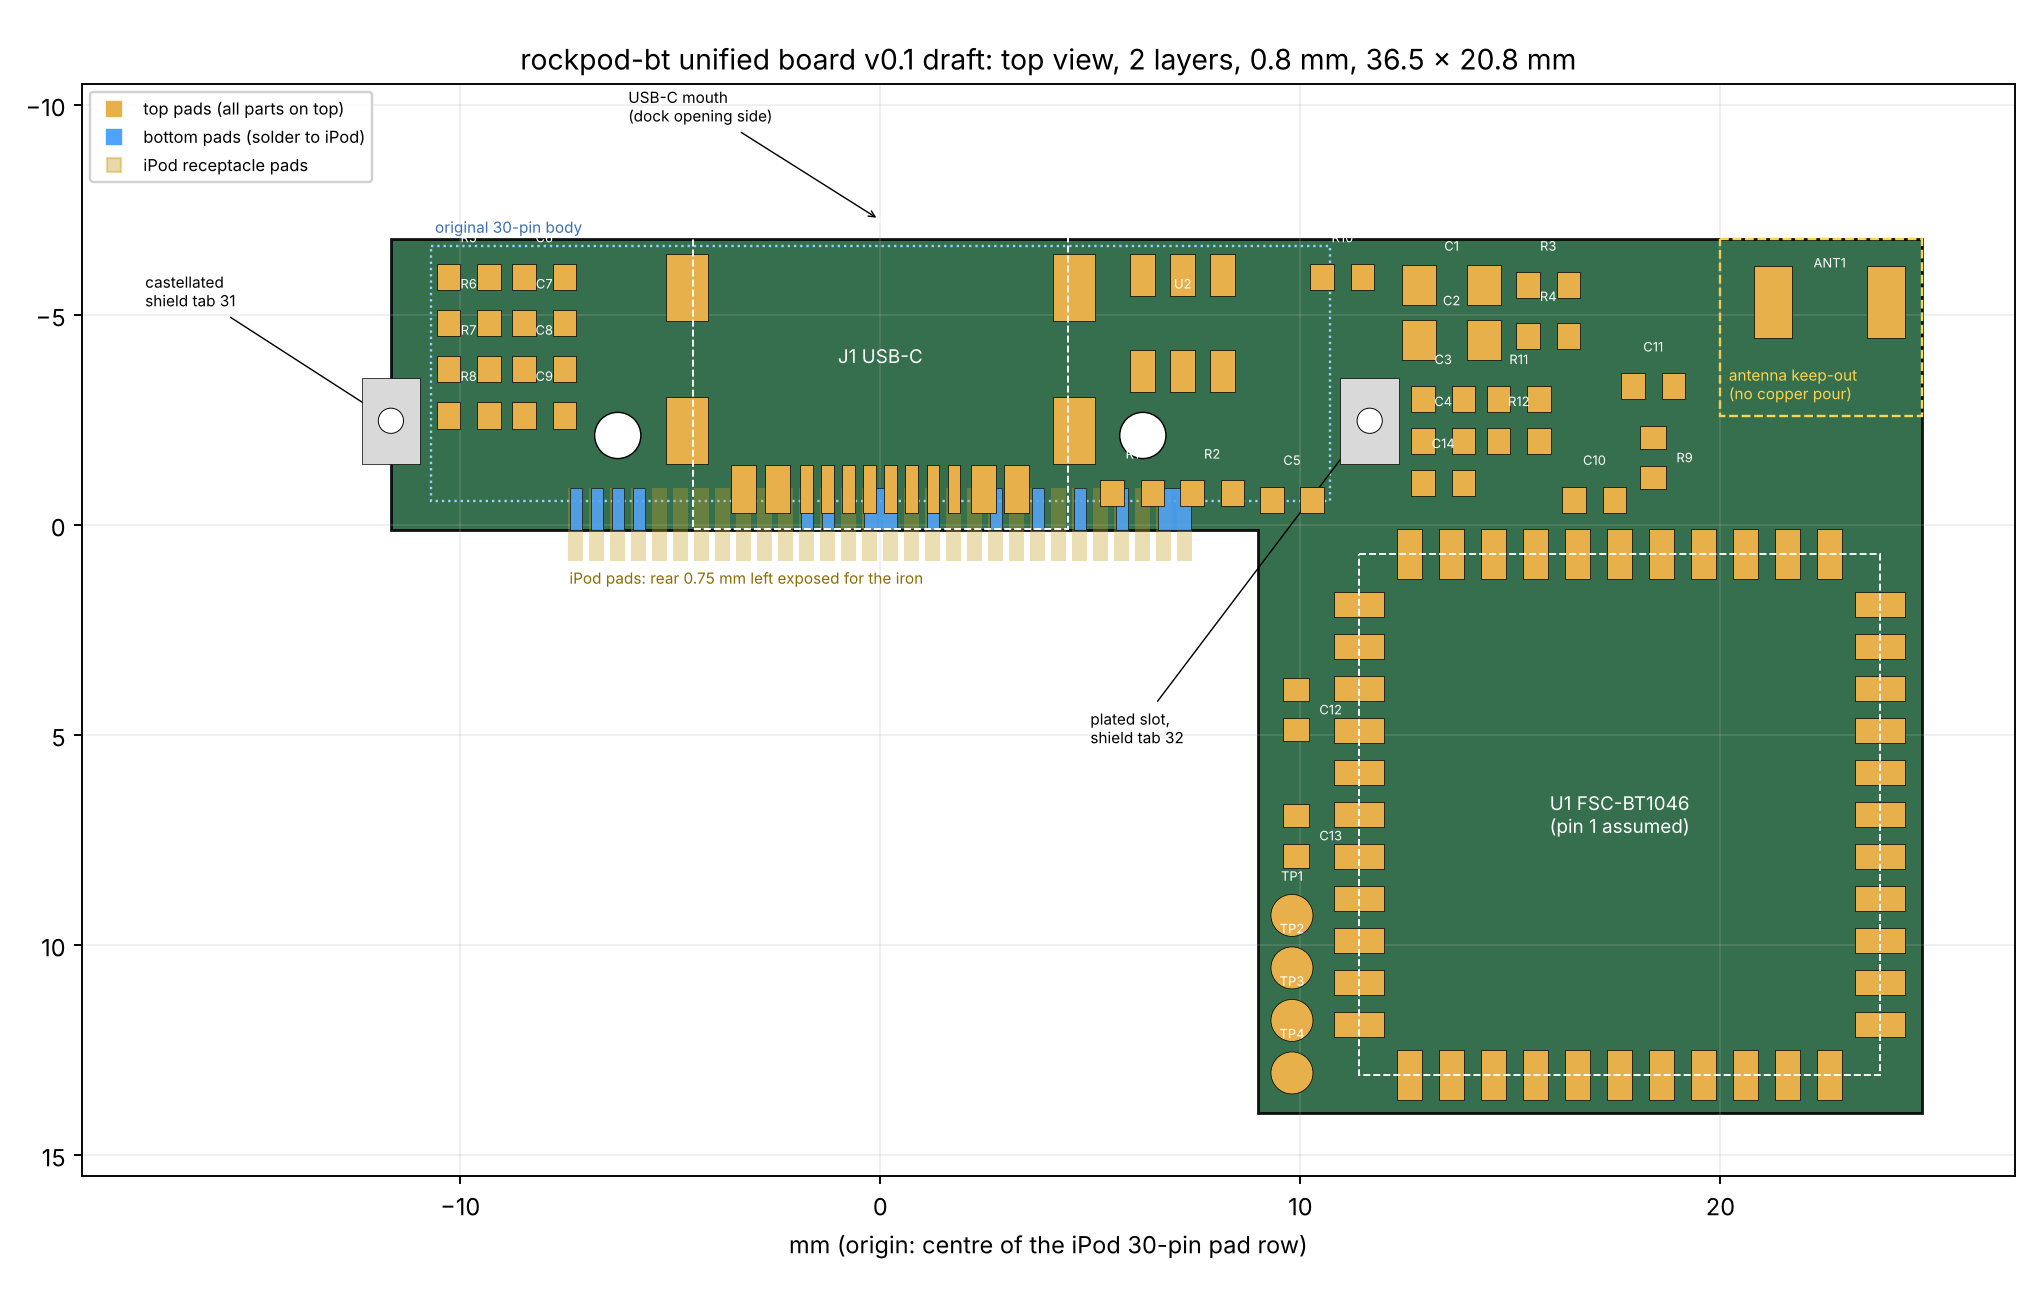
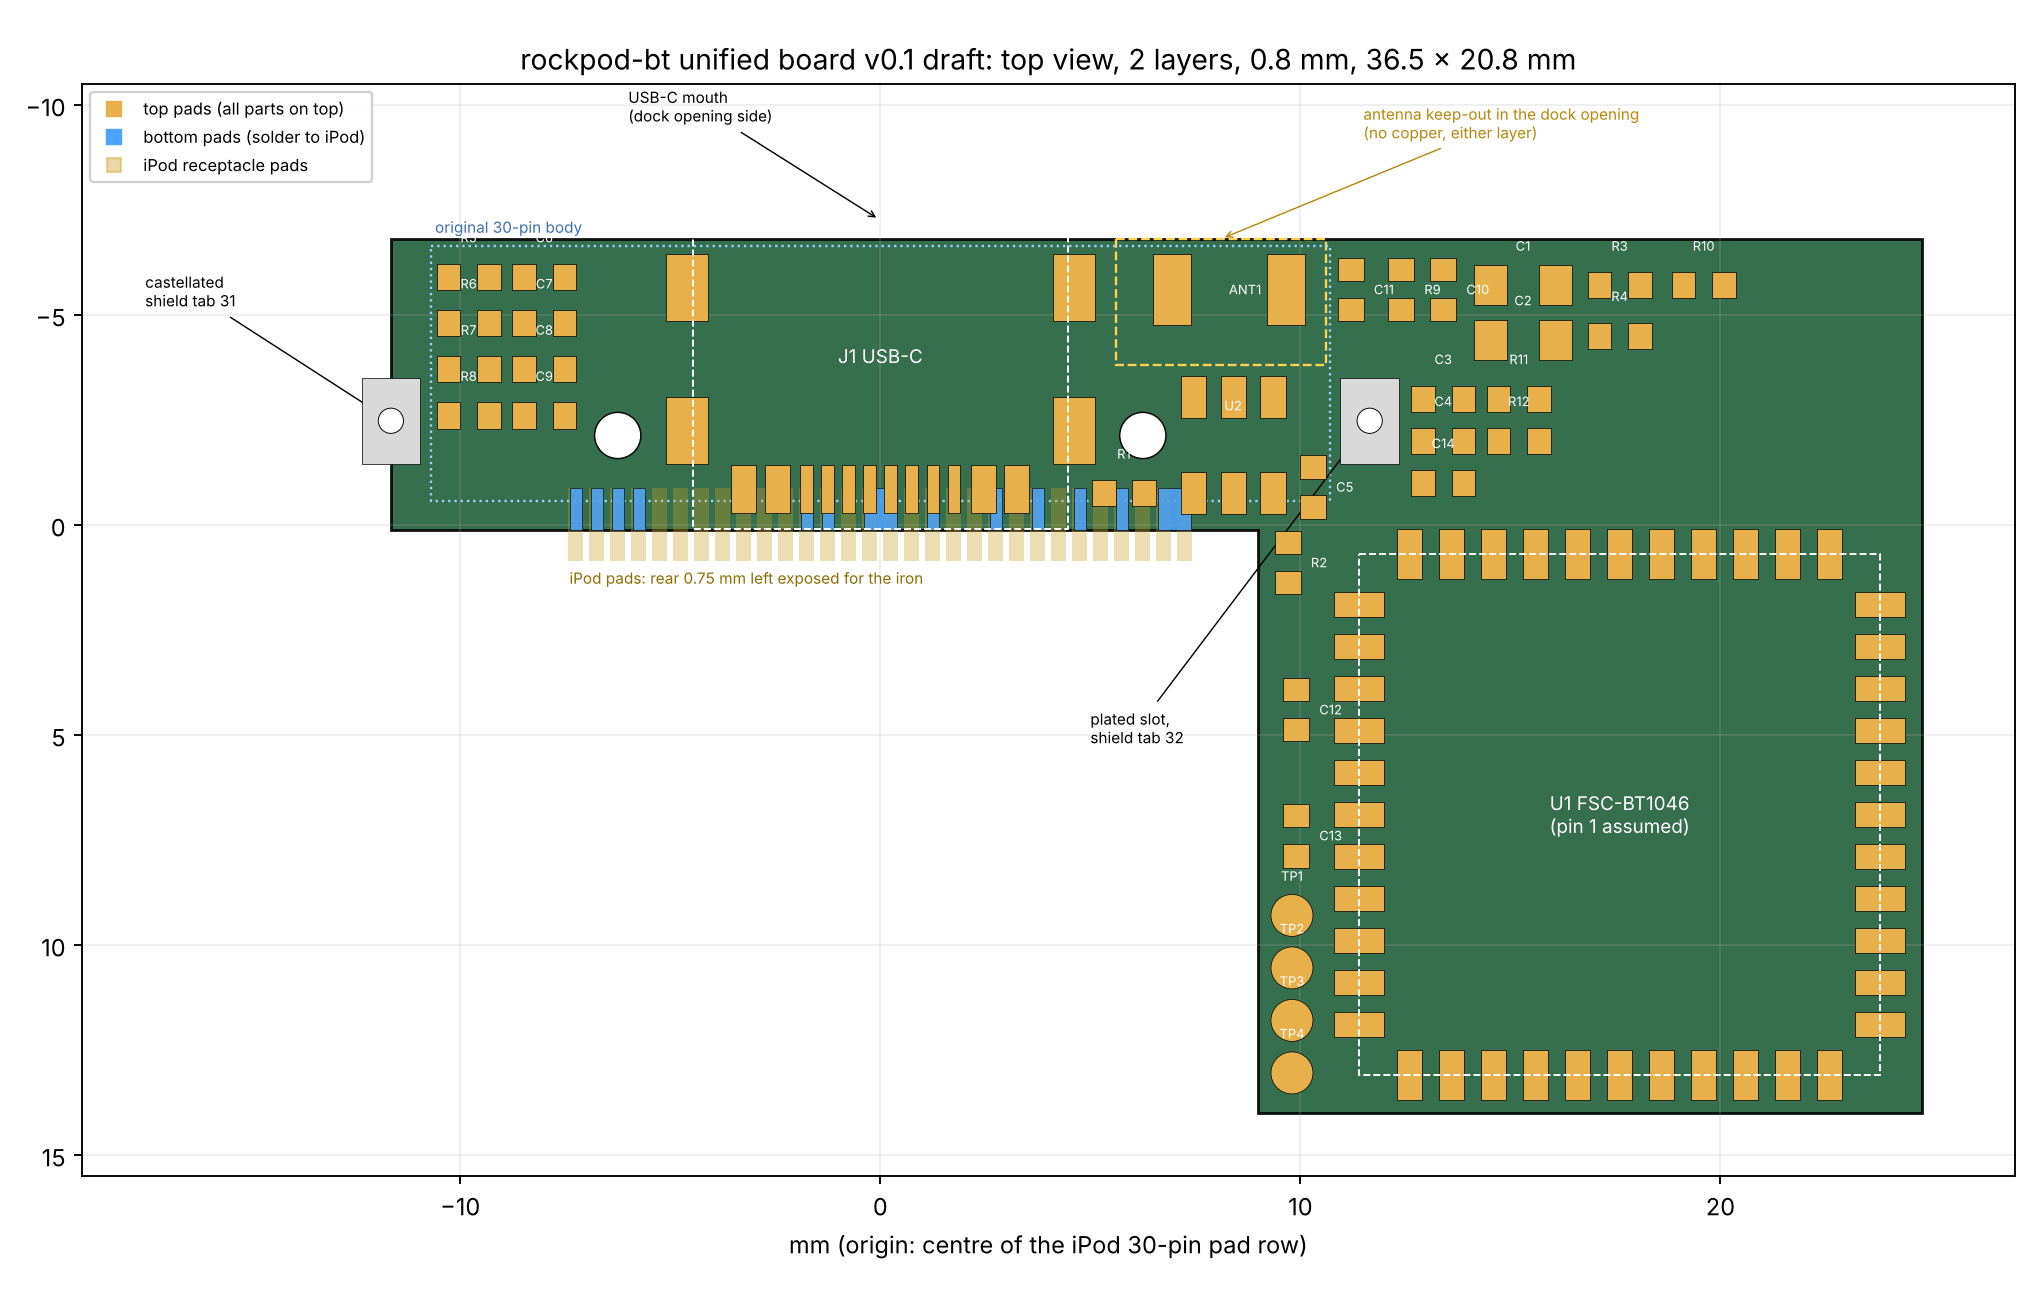
hardware: move ceramic chip antenna into the dock opening beside the USB-C
Claude-Session: https://claude.ai/code/session_01FoDVBidKx67EcF8DAr3pBg

Changed region(s): [[0.525, 0.1548, 0.9574, 0.4644], [0.6794, 0.0619, 0.8029, 0.1238]]

diff --git a/hardware/pcb/tools/design.py b/hardware/pcb/tools/design.py
@@ -18,7 +18,8 @@ MOD_C = (17.6, 6.9)  # Bluetooth module centre
 OUTLINE = [(LEFT_X, FRONT_Y), (EXT_X1, FRONT_Y), (EXT_X1, EXT_REAR),
            (EXT_X0, EXT_REAR), (EXT_X0, REAR_Y), (LEFT_X, REAR_Y)]
 
-ANT_KEEPOUT = [(20.0, FRONT_Y), (EXT_X1, FRONT_Y), (EXT_X1, -2.6), (20.0, -2.6)]
+# antenna sits in the dock opening, beside the USB-C, behind the plastic bezel insert
+ANT_KEEPOUT = [(5.6, FRONT_Y), (10.6, FRONT_Y), (10.6, -3.8), (5.6, -3.8)]
 
 # ---------------------------------------------------------------- module pins
 NC = None
@@ -68,25 +69,25 @@ PARTS = [
          pos=MOD_C, rot=0, nets={str(k): v[1] for k, v in BT_PINS.items()},
          fit=True, mpn="FSC-BT1046"),
     dict(ref="U2", value="USBLC6-2SC6", fp="SOT-23-6", lcsc="C7519",
-         pos=(7.2, -4.8), rot=0,
+         pos=(8.4, -1.9), rot=0,
          nets={"1": "USB_DN", "2": "GND", "3": "USB_DP", "4": "USB_DP",
                "5": "VBUS", "6": "USB_DN"}, fit=True, mpn="USBLC6-2SC6"),
     dict(ref="J2", value="iPod 30-pin pads", fp="IPOD_IF", lcsc="",
          pos=(0.0, 0.0), rot=0, nets=IPOD_PINS, fit=False, mpn=""),
     dict(ref="ANT1", value="RFANT3216120A5T", fp="ANT_1206", lcsc="C127629",
-         pos=(22.6, -5.3), rot=0, nets={"1": "RF_ANT", "2": NC}, fit=True,
+         pos=(8.3, -5.6), rot=180, nets={"1": "RF_ANT", "2": NC}, fit=True,
          mpn="RFANT3216120A5T"),
     # USB-C
-    dict(ref="R1", value="5.1k", fp="0402", lcsc="C25905", pos=(6.0, -0.75),
+    dict(ref="R1", value="5.1k", fp="0402", lcsc="C25905", pos=(5.8, -0.75),
          rot=0, nets=two("CC1", "GND"), fit=True, mpn="0402WGF5101TCE"),
-    dict(ref="R2", value="5.1k", fp="0402", lcsc="C25905", pos=(7.9, -0.75),
-         rot=0, nets=two("CC2", "GND"), fit=True, mpn="0402WGF5101TCE"),
-    dict(ref="C5", value="100n", fp="0402", lcsc="C307331", pos=(9.8, -0.6),
-         rot=0, nets=two("VBUS", "GND"), fit=True, mpn="CL05B104KB54PNC"),
+    dict(ref="R2", value="5.1k", fp="0402", lcsc="C25905", pos=(9.7, 0.9),
+         rot=90, nets=two("CC2", "GND"), fit=True, mpn="0402WGF5101TCE"),
+    dict(ref="C5", value="100n", fp="0402", lcsc="C307331", pos=(10.3, -0.9),
+         rot=90, nets=two("VBUS", "GND"), fit=True, mpn="CL05B104KB54PNC"),
     # module supply
-    dict(ref="C1", value="22u", fp="0603", lcsc="C59461", pos=(13.6, -5.7),
+    dict(ref="C1", value="22u", fp="0603", lcsc="C59461", pos=(15.3, -5.7),
          rot=0, nets=two("VACC", "GND"), fit=True, mpn="CL10A226MQ8NRNC"),
-    dict(ref="C2", value="22u", fp="0603", lcsc="C59461", pos=(13.6, -4.4),
+    dict(ref="C2", value="22u", fp="0603", lcsc="C59461", pos=(15.3, -4.4),
          rot=0, nets=two("VACC", "GND"), fit=True, mpn="CL10A226MQ8NRNC"),
     dict(ref="C3", value="100n", fp="0402", lcsc="C307331", pos=(13.4, -3.0),
          rot=0, nets=two("VACC", "GND"), fit=True, mpn="CL05B104KB54PNC"),
@@ -99,18 +100,18 @@ PARTS = [
     dict(ref="R12", value="10k", fp="0402", lcsc="C25744", pos=(15.2, -2.0),
          rot=0, nets=two("VACC", "MOD_RST"), fit=True, mpn="0402WGF1002TCE"),
     # UART
-    dict(ref="R3", value="1k", fp="0402", lcsc="C11702", pos=(15.9, -5.7),
+    dict(ref="R3", value="1k", fp="0402", lcsc="C11702", pos=(17.6, -5.7),
          rot=0, nets=two("IPOD_TX", "UART_TO_MOD"), fit=True,
          mpn="0402WGF1001TCE"),
-    dict(ref="R4", value="1k", fp="0402", lcsc="C11702", pos=(15.9, -4.5),
+    dict(ref="R4", value="1k", fp="0402", lcsc="C11702", pos=(17.6, -4.5),
          rot=0, nets=two("UART_FROM_MOD", "IPOD_RX"), fit=True,
          mpn="0402WGF1001TCE"),
     # RF
-    dict(ref="C10", value="DNP", fp="0402", lcsc="", pos=(17.0, -0.6), rot=0,
+    dict(ref="C10", value="DNP", fp="0402", lcsc="", pos=(13.4, -5.6), rot=90,
          nets=two("RF_MOD", "GND"), fit=False, mpn="tune"),
-    dict(ref="R9", value="0R", fp="0402", lcsc="C17168", pos=(18.4, -1.6),
+    dict(ref="R9", value="0R", fp="0402", lcsc="C17168", pos=(12.4, -5.6),
          rot=90, nets=two("RF_ANT", "RF_MOD"), fit=True, mpn="0402WGF0000TCE"),
-    dict(ref="C11", value="DNP", fp="0402", lcsc="", pos=(18.4, -3.3), rot=0,
+    dict(ref="C11", value="DNP", fp="0402", lcsc="", pos=(11.2, -5.6), rot=90,
          nets=two("RF_ANT", "GND"), fit=False, mpn="tune"),
     # audio: series R + DC block near the pads, RF caps at the module
     dict(ref="R5", value="100R", fp="0402", lcsc="C25076", pos=(-9.8, -5.9),
@@ -136,7 +137,7 @@ PARTS = [
          pos=(9.9, MOD_C[1] + 0.5), rot=90, nets=two("AUD_R_N", "AUD_R_P"),
          fit=True, mpn="0402CG101J500NT"),
     # accessory ID (unfitted)
-    dict(ref="R10", value="DNP", fp="0402", lcsc="", pos=(11.0, -5.9), rot=0,
+    dict(ref="R10", value="DNP", fp="0402", lcsc="", pos=(19.6, -5.7), rot=0,
          nets=two("ACC_ID", "GND"), fit=False, mpn="value TBD"),
     # test pads for module firmware / debug
     dict(ref="TP1", value="MOD_USB_DP", fp="TP_1MM", lcsc="", pos=(9.8, 9.3),

diff --git a/hardware/pcb/tools/render.py b/hardware/pcb/tools/render.py
@@ -12,7 +12,8 @@ import gen
 fig, ax = plt.subplots(figsize=(12, 7.6))
 ax.add_patch(Polygon(D.OUTLINE, closed=True, fc="#1f5f3a", ec="k", lw=1.2, alpha=0.9))
 ax.add_patch(Polygon(D.ANT_KEEPOUT, closed=True, fc="none", ec="#ffd34d", lw=1, ls="--"))
-ax.text(20.2, -2.9, "antenna keep-out\n(no copper pour)", color="#ffd34d", fontsize=6.5, va="bottom")
+ax.annotate("antenna keep-out in the dock opening\n(no copper, either layer)", (8.1, -6.8), (11.5, -9.2), color="#b8860b", fontsize=6.5,
+            arrowprops=dict(arrowstyle="->", lw=0.6, color="#b8860b"))
 # exposed iPod pads and original receptacle
 ax.add_patch(Rectangle((-10.7, -6.625), 21.4, 6.05, fc="none", ec="#9ad0ff", ls=":", lw=1))
 ax.text(-10.6, -6.95, "original 30-pin body", color="#3a6fb0", fontsize=6.5)

diff --git a/hardware/pcb/tools/gen.py b/hardware/pcb/tools/gen.py
@@ -198,7 +198,7 @@ def write_pcb():
     o.append(silk("original 30-pin receptacle body", -10.7, -6.9, 0.5, "Cmts.User"))
     o.append(silk("rockpod-bt v0.1", 14.5, 13.6, 0.7))
     o.append(silk("AGND isolated", -11.0, -6.2 + 0.0, 0.45))
-    o.append(silk("ANT", 21.0, -3.0, 0.6))
+    o.append(silk("ANT", 7.4, -4.2, 0.5))
     o.append(")")
     open(os.path.join(OUT, NAME + ".kicad_pcb"), "w").write("\n".join(o) + "\n")
 

diff --git a/hardware/pcb/README.md b/hardware/pcb/README.md
@@ -37,7 +37,12 @@ KiCad 8 project for EasyEDA Pro import: the complete schematic and a placed (not
   - Add an order note for JLCPCB not to trim the bottom pads on the rear edge.
 - **Shield tabs:** tab 31 (left) is castellated on the board edge. Tab 32 (right) falls inside the extension, so it gets a plated slot instead, which solder fed from the top flows through.
 - **Alignment holes:** two 1.1 mm holes match the iPod's receptacle locating holes at x = ±6.25 mm.
-- **Antenna (internal, ceramic chip):** the module has no antenna of its own. The FSC-BT1046 datasheet says to connect a 50 Ω antenna to RF_IO (pin 7). A chip antenna sits at the front corner, the side facing the dock opening, with a pi-match (R9 fitted with 0 Ω; C10 and C11 left unfitted for tuning) and a copper keep-out on both layers.
+- **Antenna (internal, ceramic chip, in the dock opening):** the module has no antenna of its own. The FSC-BT1046 datasheet says to connect a 50 Ω antenna to RF_IO (pin 7).
+  - **Placement:** ANT1, a 3.2 × 1.6 mm ceramic chip, sits at the front edge beside the USB-C, inside the old 30-pin opening. On the 6G/7G that opening, behind the plastic bezel insert, is the only gap in the metal case.
+  - **Keep-out:** an area of about 5 × 3 mm around ANT1 has no copper on either layer.
+  - **Matching:** the pi-match sits right beside the antenna. R9 is fitted with 0 Ω; C10 and C11 are left unfitted for tuning.
+  - **Feed line:** RF_MOD runs from module pin 7 to the pi-match as a 50 Ω coplanar line.
+  - **Watch:** the iPod logic board under the old receptacle may carry a ground plane right below the antenna, which will detune it. Plan to tune C10/C11 with the board installed.
 
 ## Assumptions to check first
 
@@ -58,7 +63,7 @@ KiCad 8 project for EasyEDA Pro import: the complete schematic and a placed (not
 - **USB D+/D−:** a 90 Ω differential pair from J1 through U2 to the iPod pads 25/27, kept short.
 - **iPod interface pads (underside):** USB-C pads sit directly above several of them. Fan the bottom pads out on the bottom layer first, then via up to the top clear of J1's pads. Vias under the USB-C body must be tented.
 - **Underside copper:** don't pour on the bottom layer, since it sits on the iPod logic board. Keep bottom traces short and under solder mask.
-- **RF:** RF_MOD → R9 → RF_ANT as a short 50 Ω coplanar line over the top ground pour, stitched with GND vias. No copper of either layer inside the antenna keep-out.
+- **RF:** RF_MOD from module pin 7 to C10/R9/C11 beside the antenna, as a 50 Ω coplanar line over the top ground pour, stitched with GND vias. Keep it clear of the audio pairs and USB D+/D−. No copper of either layer inside the antenna keep-out.
 - **Power:** VACC (pad 18) to C1/C2 (bulk) and C3 (VBAT) / C4 (PIO_POWER) close to the module pins.
 - **Checks after soldering:** see `../DESIGN.md`.
 
